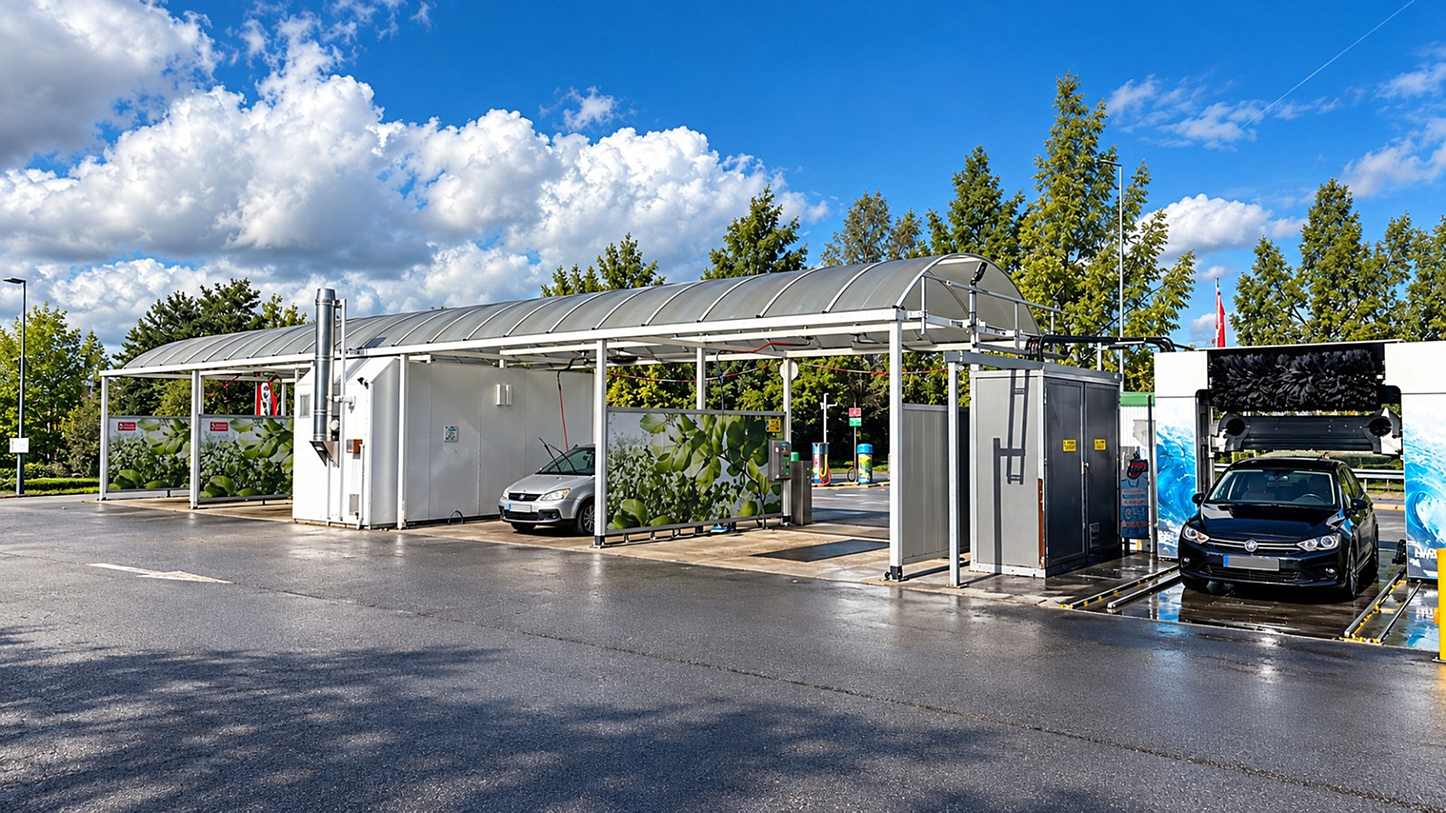
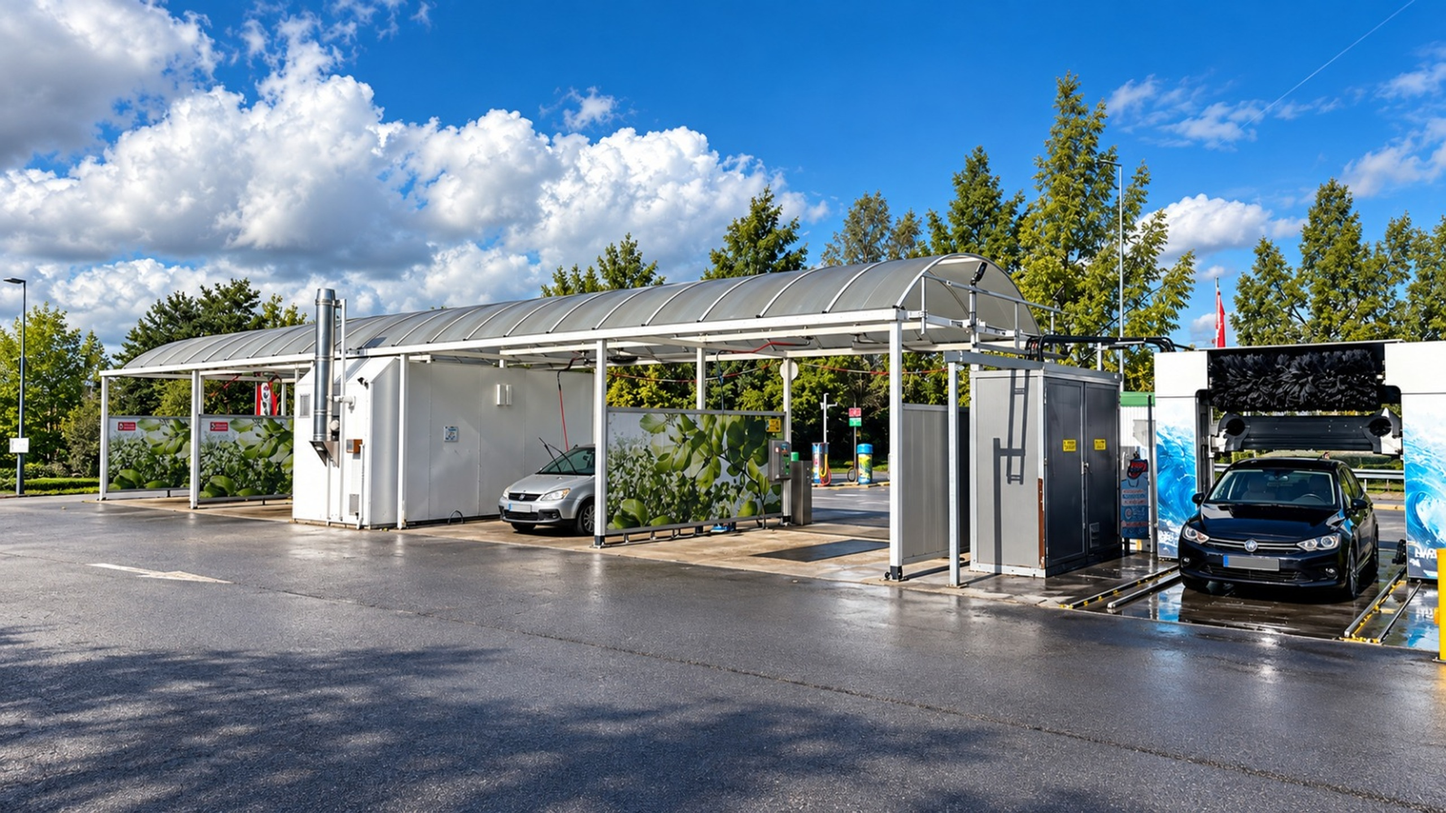
Hero : photo plus propre, sans grain ni sur-affinage
- Photo du Hero ré-agrandie en 2560 px sans affinage (l'affinage
  accentuait les défauts de la source) et en qualité 95
- Suppression du grain superposé au Hero et aux en-têtes de pages,
  qui donnait un effet pixelisé
- Suppression du flou de chargement et zoom d'animation réduit

diff --git a/components/home/Hero.tsx b/components/home/Hero.tsx
@@ -57,7 +57,7 @@ export function Hero() {
   const clip = useMotionTemplate`polygon(${x}% 0%, 110% 0%, 110% 100%, ${xBottom}% 100%)`;
 
   const photoY = useTransform(scrollYProgress, [0, 1], ["0%", "14%"]);
-  const photoScale = useTransform(scrollYProgress, [0, 1], [1.02, 1.08]);
+  const photoScale = useTransform(scrollYProgress, [0, 1], [1, 1.04]);
   const contentY = useTransform(scrollYProgress, [0, 0.6], ["0%", "-18%"]);
   const contentOpacity = useTransform(scrollYProgress, [0, 0.45], [1, 0]);
   const jetOpacity = useTransform(x, [-30, -8, 0, 100, 112], [0, 0, 1, 1, 0]);
@@ -79,7 +79,6 @@ export function Hero() {
           priority
           sizes="100vw"
           quality={90}
-          placeholder="blur"
           className="object-cover object-[80%_50%] md:object-[70%_45%]"
         />
         <m.div className="absolute inset-0" style={{ clipPath: clip }}>
@@ -90,7 +89,6 @@ export function Hero() {
             priority
             sizes="100vw"
             quality={90}
-            placeholder="blur"
             className="object-cover object-[80%_50%] md:object-[70%_45%]"
           />
           {/* quelques gouttes sur la partie nettoyée, loin du texte */}
@@ -135,7 +133,6 @@ export function Hero() {
       )}
 
       <div aria-hidden="true" className="hero-vignette absolute inset-0 -z-10" />
-      <div aria-hidden="true" className="grain absolute inset-0 -z-10" />
 
       <m.div
         style={{ y: contentY, opacity: contentOpacity }}

diff --git a/components/sections/PageHero.tsx b/components/sections/PageHero.tsx
@@ -41,7 +41,6 @@ export function PageHero({ title, kicker, intro, photo, children, aside, washSte
             style={{ objectPosition: photo.focus }}
           />
           <div aria-hidden="true" className="hero-vignette absolute inset-0 -z-10" />
-          <div aria-hidden="true" className="grain absolute inset-0 -z-10" />
         </>
       )}
       {!photo && (
